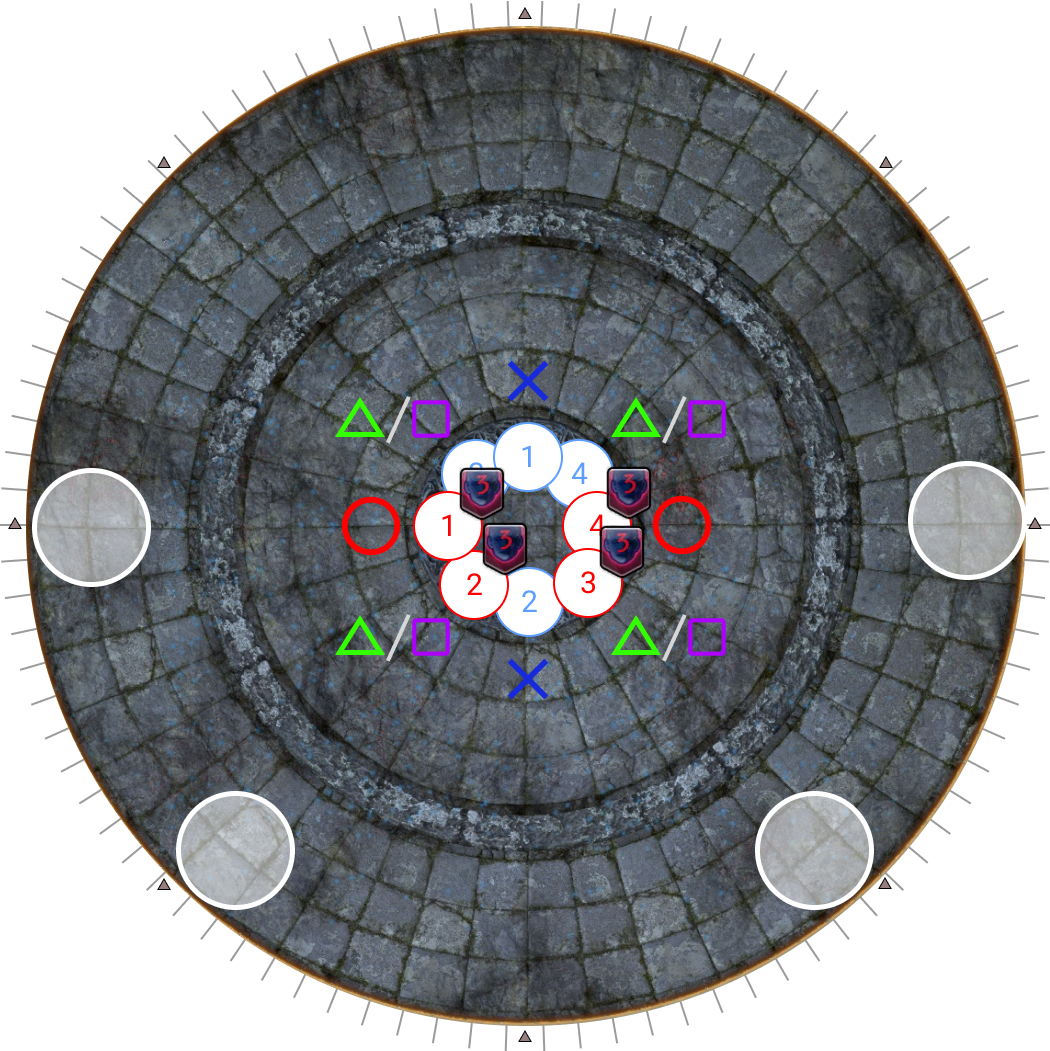
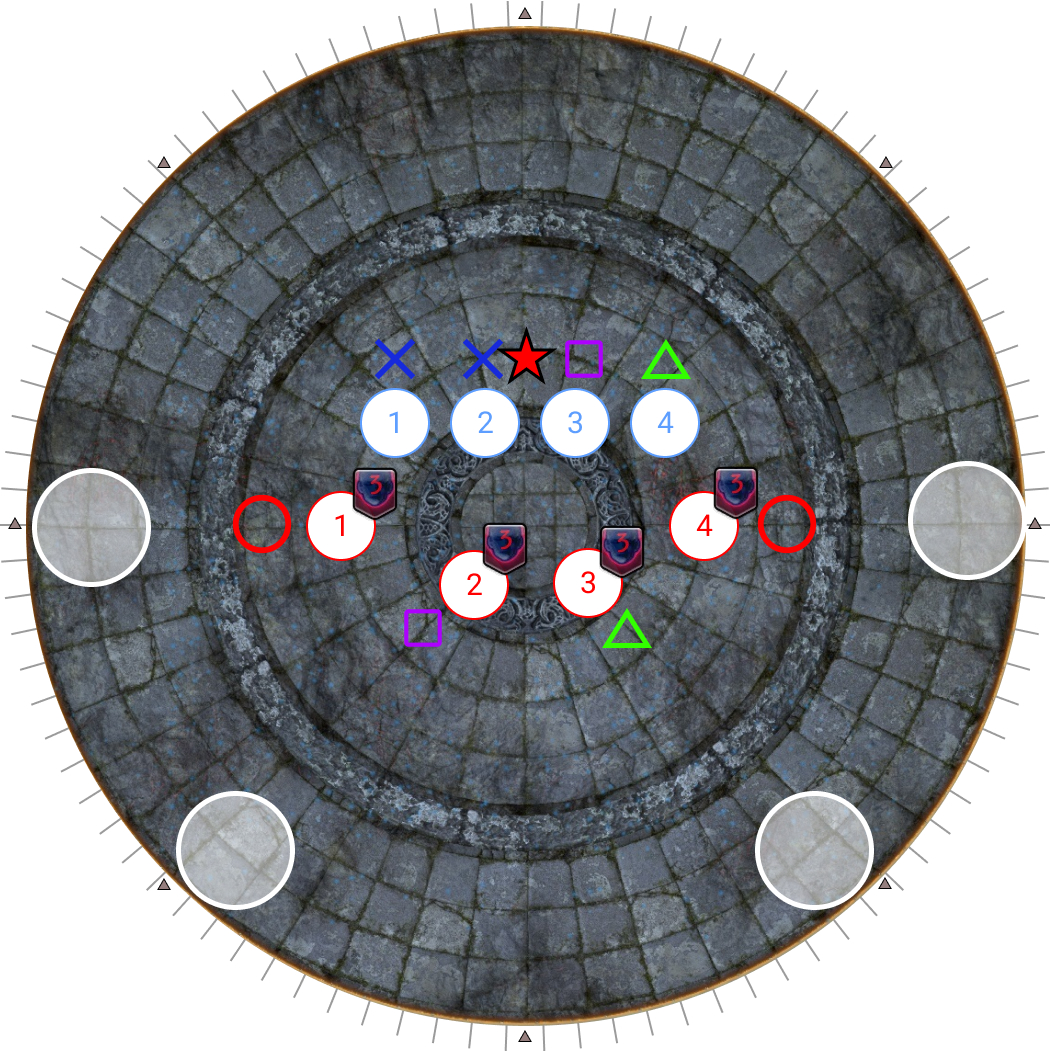
Add Wrath of the Heavens details

diff --git a/ultimates/dsr/en/05_alternate_thordan.md b/ultimates/dsr/en/05_alternate_thordan.md
@@ -7,13 +7,40 @@ grand_parent: Ultimates
 
 # Alternate Thordan
 
+There are some considerations to make in this phase based on how the group plans to use their invulns in P6 and P7 that will affect how to take the Heavenly Heel tankbusters.
+
+To have both tanks invuln the Cauterize at the end of P6, tanks will need to **tank swap both tankbusters** after Wrath and Death of the Heavens.
+
+**Only WAR** can Holmgang the tankbuster after Wrath of the Heavens and still invuln P6's Cauterize.
+
 ## Wrath of the Heavens
 
-- Any player can be targeted for the two Thunderstrucks, including the two Spiral Pierces (tethers) and the Skyward Leap (blue prey mark).
-- A player targeted by Thunderstruck *may* also be targeted for the divebomb, but *will not* be targeted by either Liquid Heaven or Alter Pyre.
-
-- Of the four players that has not had an earlier mechanic (Skyward Leap, Spiral Pierces, divebomb, Thunders), **one** will be targeted by Liquid Heaven.
-- Of the four players that *had* a mechanic (Skyward Leap, Spiral Pierce, divebomb), **one** will be targeted by Altar Pyre.
+<table>
+  <tr>
+    <td><p><b>1.</b> A white dragon with two knights will spawn at a random cardinal edge.</p><p>Using the white dragon as north:</p><ul><li>One player with the blue Skyward Leap marker will go NW (4 notches from the "shuriken").</li><li>Two players with Spiral Thrust tethers will cross their tethers and stand south (4 notches away from SW and SE)</li><li>All other players line up along the east side (within 4 notches away from the NE and SE "shurikens")</li></ul><p>Ser Grinnaux (WAR) and Ser Charibert (BLM) will also spawn in the arena, one north, one south <b>in a random configuration</b>.</p><p><b>Identify which is Ser Grinnaux (WAR), and which is Ser Charibert (BLM)</b>.</td>
+    <td><img src="../images/alternate_thordan/wrath_of_the_heavens_01.jpg"></td>
+  </tr>
+  <tr>
+    <td><p><b>2.</b> Additional debuffs appear before the first set of AoEs resolve.</p><ul><li>Two players will get a Thunder debuff. <b>If you get Thunder, identify who the other Thunder player is.</b></li><li>One player gets targeted with a green divebomb marker.</li></ul></td>
+    <td><img src="../images/alternate_thordan/wrath_of_the_heavens_02.jpg"></td>
+  </tr>
+  <tr>
+    <td><p><b>3.</b> After the first round of AoEs resolve, <b>move to dodge Twisters</b>, and spread out <b>towards Ser Charibert (BLM)</b> with <b>at least 2 tiles between players</b>.</p><ul><li>The three players who had the Skyward Leap and the two Spiral Pierces will always dodge and <b>spread along the west</b>.</li><li>The player with the green divebomb mark goes to the <b>edge behind Ser Charibert (BLM)</b>.</li><li>The remaining players spread out along the east side.</li></ul></td>
+    <td><img src="../images/alternate_thordan/wrath_of_the_heavens_03.jpg"></td>
+  </tr>
+  <tr>
+    <td><p><b>4.</b> When Ascalon's Mercy Revealed resolves, baited AoEs appear.</p><ul><li>One player who had either Skyward Leap, Spiral Pierce, or Divebomb will be targeted by 4 Altar Pyre AoEs.</li><li>One of the four remaining players will be targeted by 5 Liquid Heaven AoEs.</li></ul><p>A player with Thunder <b>will not</b> be targeted by either Altar Pyre, or Liquid Heaven.</td>
+    <td><img src="../images/alternate_thordan/wrath_of_the_heavens_04.jpg"></td>
+  </tr>
+  <tr>
+    <td><p><b>5.</b> Bait Altar Pyre and Liquid Heaven AoEs, and move <b>towards Ser Grinnaux (WAR)</b>.</p><ul><li>The two players targeted with Lightning will be on the outside as per the priority.</li><li>All other players stack towards the center of the arena.</li></ul><p>The player on the east with Liquid Heaven should try to <b>enter the safe spot from the side</b>, as a player on the west side will be one-shot if they get hit by the Liquid Heaven AoE.</p><p>Sprint is <b>very useful</b> here.</p></td>
+    <td><img src="../images/alternate_thordan/wrath_of_the_heavens_05.jpg"></td>
+  </tr>
+  <tr>
+    <td><p><b>6.</b> Final set of AoEs resolve.</p><p>Heal and prepare for Ancient Quaga.</p><p>N.B: The MT will need to use their 2m buff to mitigate Ancient Quaga (and the subsequent Heavenly Heel) for it to be back in time for the first tankbuster in P6.</p></td>
+    <td><img src="../images/alternate_thordan/wrath_of_the_heavens_06.jpg"></td>
+  </tr>
+</table>
 
 ## Death of the Heavens
 
@@ -41,19 +68,23 @@ My preferred strat is an upside-down version of the "Komazou" strat, which split
     <td><img src="../images/alternate_thordan/death_of_the_heavens_05.jpg"></td>
   </tr>
   <tr>
-    <td><p><b>6.</b> Playstation markers appear.</p><b>Doomed players:</b><ul><li>After baiting circles, the two circle players move into the center.</li><li>The two other Doomed players do not move from their position.</li></ul><b>Non-Doomed players:</b><ul><li>The left-side X takes the North position.</li><li>The right-side X takes the South position.<li>Square and Triangle move opposite the Doomed player with the same symbol.</li></ul><b>Everyone:</b><ul><li><b>Look away from Thordan and the Dragon's Eye</b></li></ul></td>
+    <td><p><b>6.</b> Playstation markers appear.</p><b>Doomed players:</b><ul><li>After baiting circles, the two circle players move towards the center.</li><li>The two other Doomed players do not move from their position.</li></ul><b>Non-Doomed players:</b><ul><li>The left-side X takes the North position.</li><li>The right-side X takes the South position.<li>Square and Triangle move opposite the Doomed player with the same symbol.</li></ul></td>
     <td><img src="../images/alternate_thordan/death_of_the_heavens_06.jpg"></td>
   </tr>
   <tr>
-    <td><p><b>7.</b> Faith Unmoving (knockback) and Heavensflame (AoEs on each player) resolves.</p><b>Doomed players:</b><ul><li>Step into the white puddle left behind to cleanse Doom</li></ul></td>
+    <td><p><b>7.</b> Players adjust as needed, use markers/outside "shurikens" to properly align yourself, and <b>look away from both Thordan and the Dragon's Eye.</b></td>
     <td><img src="../images/alternate_thordan/death_of_the_heavens_07.jpg"></td>
+  </tr>
+  <tr>
+    <td><p><b>8.</b> Faith Unmoving (knockback) and Heavensflame (AoEs on each player) resolves.</p><b>Doomed players:</b><ul><li>Step into the white puddle left behind to cleanse Doom</li></ul></td>
+    <td><img src="../images/alternate_thordan/death_of_the_heavens_08.jpg"></td>
   </tr>
 </table>
 
 ## P7 considerations
 
-At this point, the group needs to consider what their P7 strat will be, as it will affect tank mitigation from this point onwards.
-
-**If you are going to do a 1-1-6 strat:** Have the MT invuln the tankbuster after Death of the Heavens. This preserves both tank's cooldowns so both tanks enter P6 with all cooldowns ready.
+How the group chooses to spend their invulns in P6 and P7 will affect how the tankbusters are handled in this phase. It will also affect what cooldowns are available at the start of P6.
 
 **If you are going to do a 3-3-2 strat:** You will need to tank swap the Heavenly Heel after Death of the Heavens. This means that both tanks will begin P6 with one less mitigation available, but will have invulns for Cauterize.
+
+**If you are going to do a 1-1-6 strat:** Have the MT invuln the tankbuster after Death of the Heavens. This preserves both tank's cooldowns so both tanks enter P6 with all cooldowns ready.
